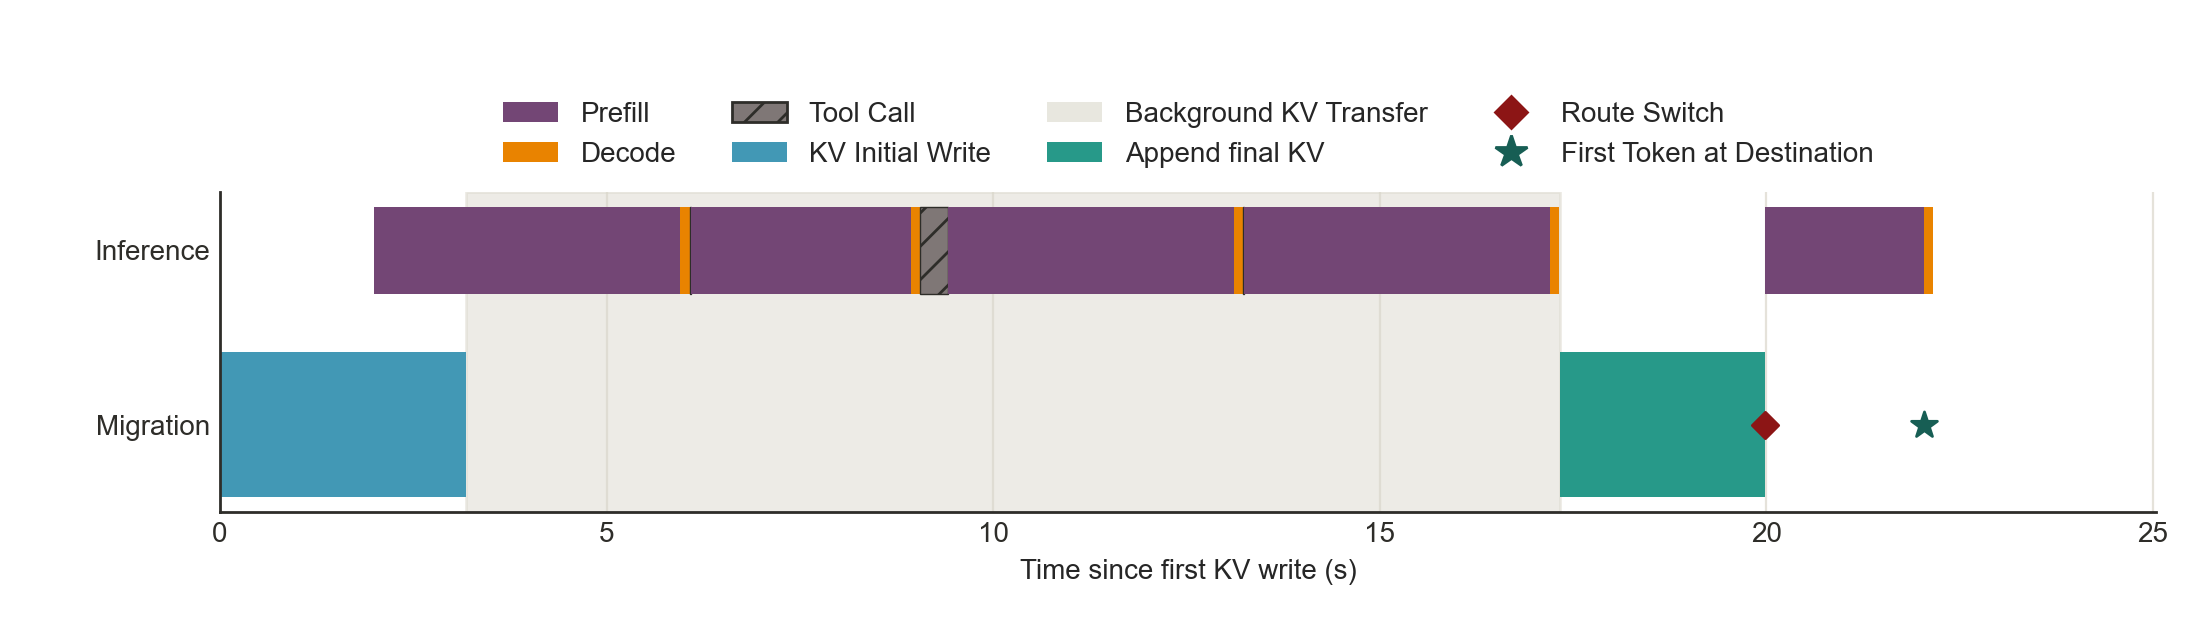
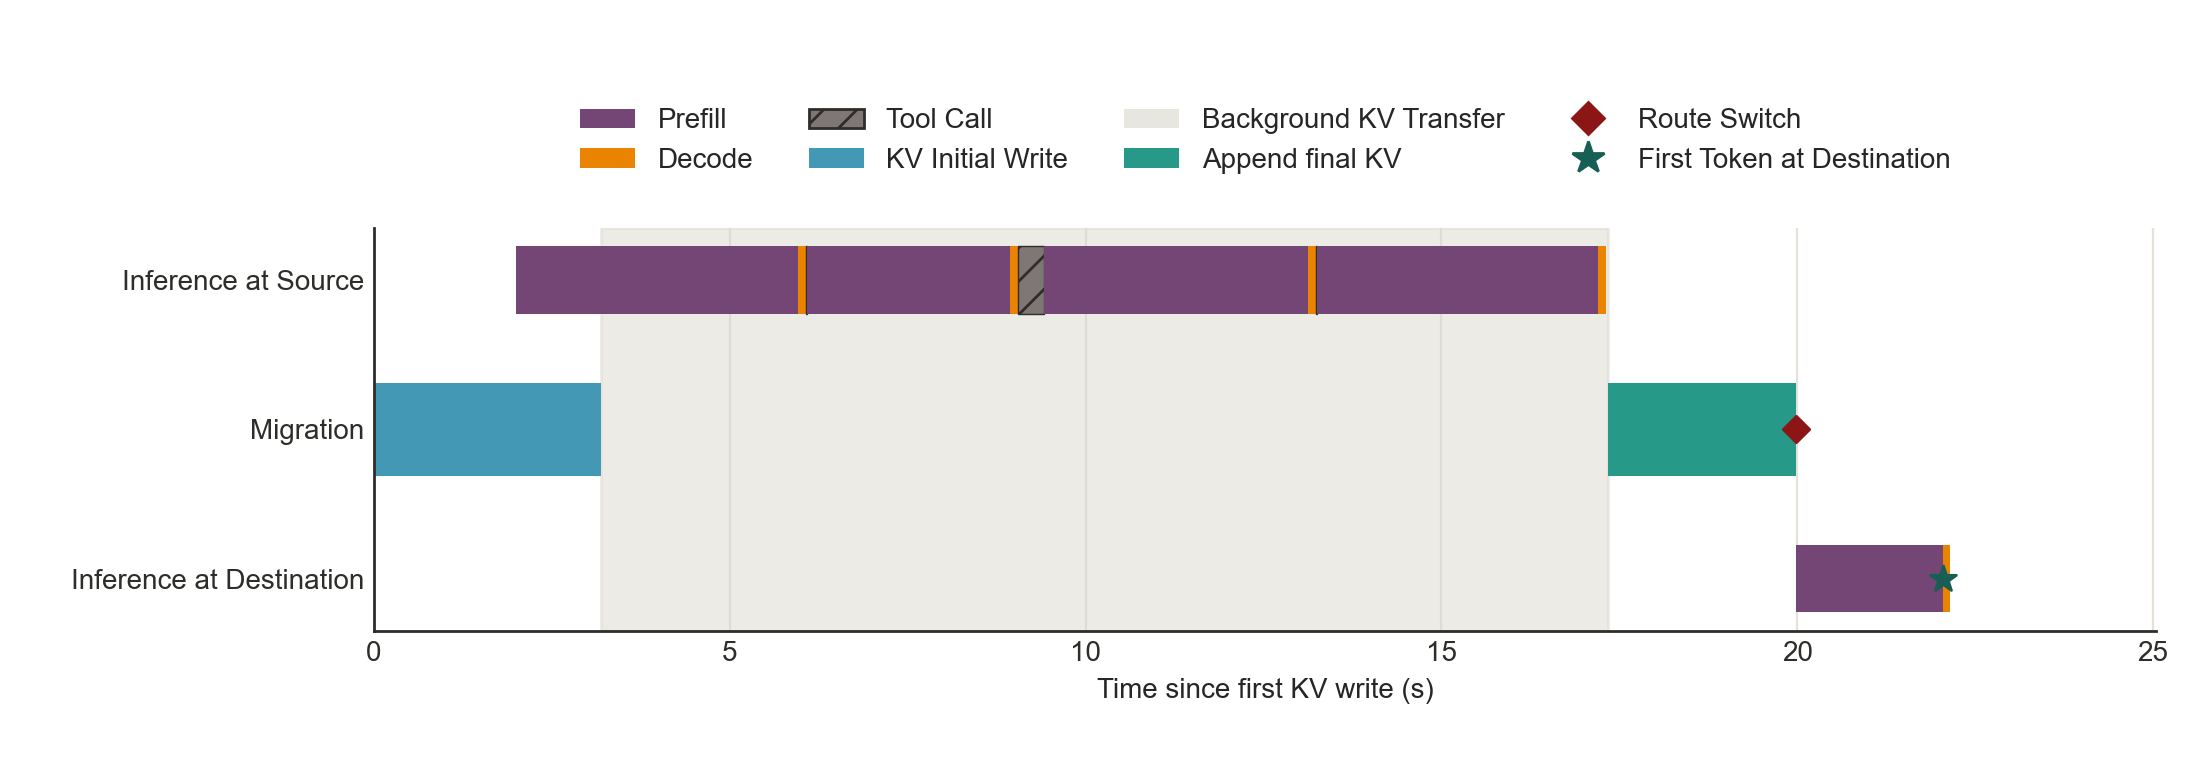
Split source and destination inference tracks

diff --git a/agent-migrate/queue-haul/plot_testbed_kv_timeline.py b/agent-migrate/queue-haul/plot_testbed_kv_timeline.py
@@ -149,7 +149,7 @@ def plot(timeline_path: Path, inference_path: Path, out: Path) -> None:
         "text": "#2E2D29",
         "grid": "#DAD7CB",
     }
-    fig, gantt = plt.subplots(figsize=(11, 3.2))
+    fig, gantt = plt.subplots(figsize=(11, 3.8))
     phases = (
         ("bulk_start_s", "bulk_finish_s", "KV Initial Write", "bulk"),
         ("catch_up_start_s", "catch_up_finish_s", "Append final KV", "catch"),
@@ -163,11 +163,13 @@ def plot(timeline_path: Path, inference_path: Path, out: Path) -> None:
     positions = [1.4 * index for index in range(len(timeline))]
     inference_labels = set()
     for y, row in zip(positions, timeline):
+        source_y, migration_y, destination_y = y - .55, y, y + .55
         commit = float(row["commit_s"])
         for start_name, end_name, label, color in phases:
             start, end = float(row[start_name]), float(row[end_name])
             gantt.barh(
-                y + .18, end - start, left=start, height=.4, color=colors[color],
+                migration_y, end - start, left=start, height=.34,
+                color=colors[color],
                 label=label if y == positions[0] else None, zorder=2,
             )
         session_segments = [
@@ -180,8 +182,10 @@ def plot(timeline_path: Path, inference_path: Path, out: Path) -> None:
             color = {
                 "Prefill": "prefill", "Decode": "decode", "Tool Call": "tool",
             }[phase]
+            inference_y = source_y \
+                if segment["location"] == "source" else destination_y
             gantt.barh(
-                y - .3, end - start, left=start, height=.24,
+                inference_y, end - start, left=start, height=.25,
                 color=colors[color], hatch="//" if color == "tool" else None,
                 edgecolor=colors["text"] if color == "tool" else "none",
                 linewidth=.5,
@@ -190,19 +194,19 @@ def plot(timeline_path: Path, inference_path: Path, out: Path) -> None:
             )
             inference_labels.add(phase)
         gantt.scatter(
-            commit, y + .18, marker="D", s=45, color=colors["switch"],
+            commit, migration_y, marker="D", s=45, color=colors["switch"],
             label="Route Switch" if y == positions[0] else None, zorder=4,
         )
         first_token = float(row["first_token_s"])
         gantt.scatter(
-            first_token, y + .18, marker="*", s=95,
+            first_token, destination_y, marker="*", s=95,
             color=colors["token"],
             label="First Token at Destination" if y == positions[0] else None,
             zorder=4,
         )
     gantt.set_yticks(
-        [positions[0] - .3, positions[0] + .18],
-        ["Inference", "Migration"],
+        [positions[0] - .55, positions[0], positions[0] + .55],
+        ["Inference at Source", "Migration", "Inference at Destination"],
     )
     gantt.invert_yaxis()
     legend = (
@@ -238,7 +242,7 @@ def plot(timeline_path: Path, inference_path: Path, out: Path) -> None:
     gantt.set_xlabel("Time since first KV write (s)")
     end = max(float(row["first_token_s"]) for row in timeline) + 3
     gantt.set_xlim(0, end)
-    fig.subplots_adjust(left=.1, right=.98, top=.7, bottom=.2)
+    fig.subplots_adjust(left=.17, right=.98, top=.7, bottom=.17)
     fig.savefig(out.with_suffix(".png"), dpi=200)
     fig.savefig(out.with_suffix(".pdf"))
     plt.close(fig)

diff --git a/agent-migrate/queue-haul/tests/test_testbed_kv_timeline.py b/agent-migrate/queue-haul/tests/test_testbed_kv_timeline.py
@@ -71,11 +71,16 @@ def test_extract_preserves_pause_and_inference_semantics(tmp_path):
     assert row["quiesce_s"] == 2
     assert row["commit_s"] == pytest.approx(4.1)
     assert row["first_token_s"] == pytest.approx(4.4)
-    assert [(segment["phase"], segment["start_s"], segment["finish_s"])
+    assert [(segment["location"], segment["phase"],
+             segment["start_s"], segment["finish_s"])
             for segment in segments] == [
-        ("Prefill", .1, .6), ("Decode", .6, .8), ("Tool Call", .8, 1.1),
-        ("Prefill", 1.1, 2.2), ("Decode", 2.2, 2.5),
-        ("Prefill", 4.2, 4.4), ("Decode", 4.4, 4.6),
+        ("source", "Prefill", .1, .6),
+        ("source", "Decode", .6, .8),
+        ("source", "Tool Call", .8, 1.1),
+        ("source", "Prefill", 1.1, 2.2),
+        ("source", "Decode", 2.2, 2.5),
+        ("destination", "Prefill", 4.2, 4.4),
+        ("destination", "Decode", 4.4, 4.6),
     ]
     assert max(
         segment["finish_s"] for segment in segments
